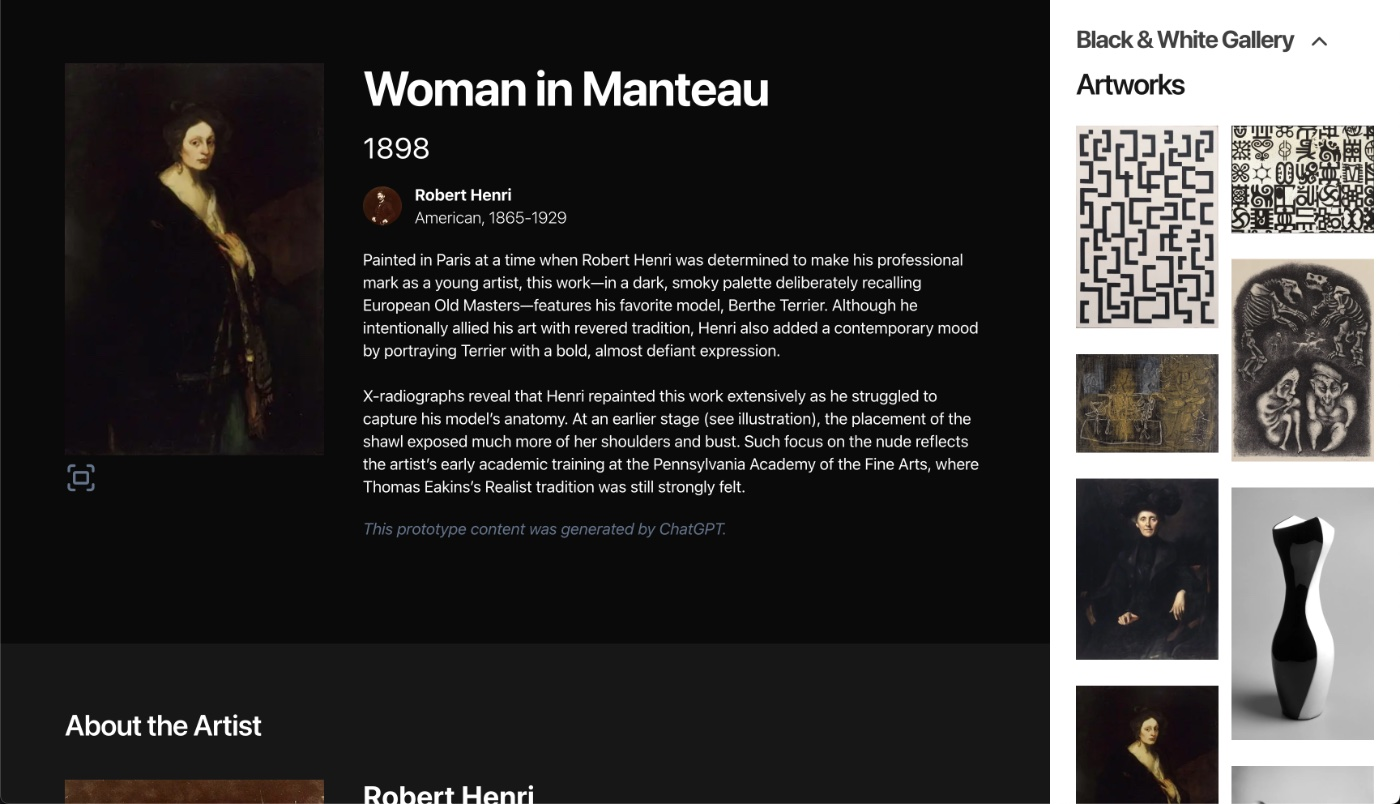
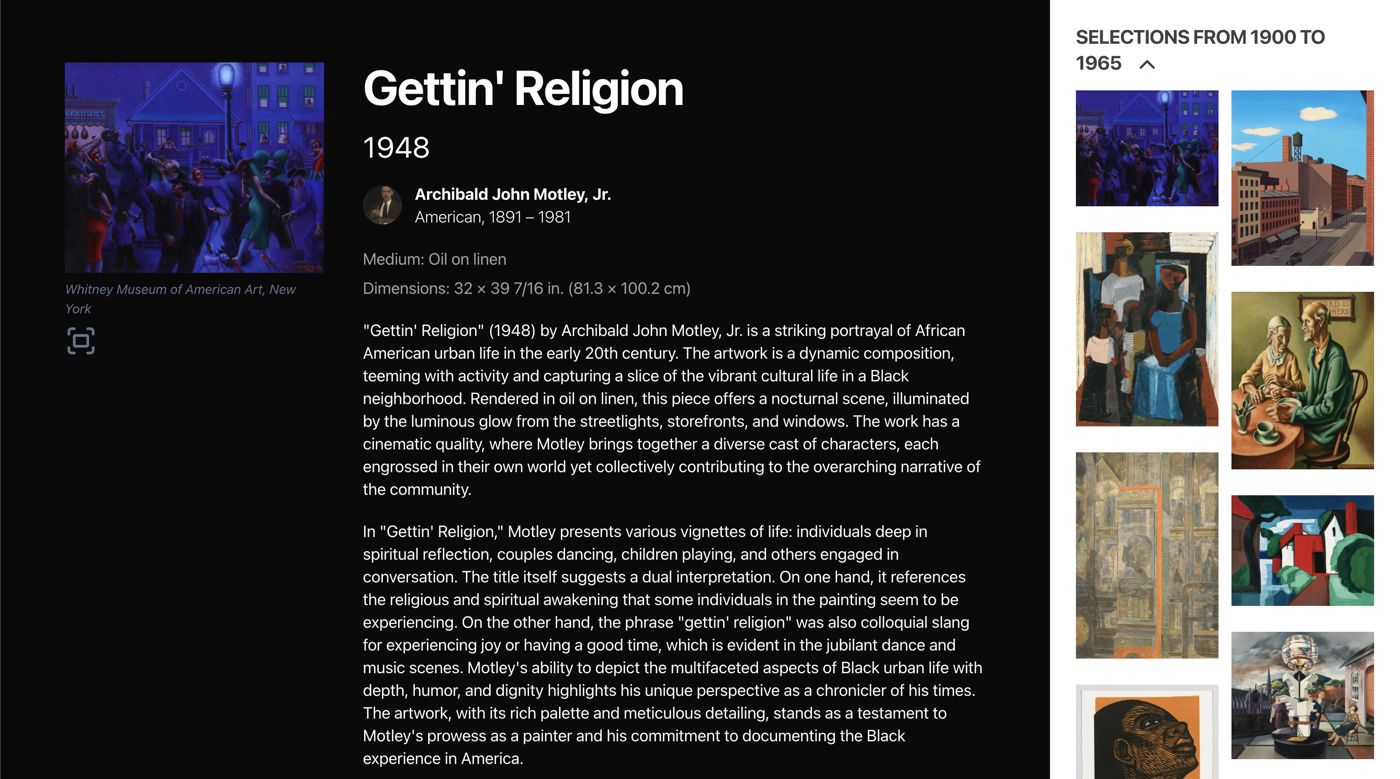
update gallery, UI enhance, artwork fields

diff --git a/components/gallery/gallery.tsx b/components/gallery/gallery.tsx
@@ -1,7 +1,7 @@
 'use client';
 
 import { Key, MutableRefObject, useEffect, useRef, useState } from 'react';
-import type { Gallery, Artwork as ArtworkType } from '@/types';
+import type { Artwork as ArtworkType, Gallery } from '@/types';
 import { ChevronUp } from 'lucide-react';
 
 import Artwork from '@/components/artwork/artwork';
@@ -17,33 +17,37 @@ interface GalleryProps {
 export default function Gallery({ gallery }: GalleryProps) {
   const [slug, setSlug] = useState<string | null>(null);
   const [artwork, setArtwork] = useState<ArtworkType | null>(null);
-  const timerRef = useRef<number | null>(null);
+  const galleryTimerRef = useRef<number | null>(null);
 
   function onImageClick(slug: string | null) {
     setSlug(slug);
   }
 
-  const scrollable = useRef() as MutableRefObject<HTMLDivElement | null>;
+  const galleryScrollable = useRef() as MutableRefObject<HTMLDivElement | null>;
 
   useEffect(() => {
-    setArtwork(gallery.artworks.find((artwork) => artwork.slug === slug) || null);
-    scrollable?.current?.scrollTo({ top: 0, behavior: 'smooth' });
+    setArtwork(
+      gallery.artworks.find((artwork) => artwork.slug === slug) || null
+    );
+    galleryScrollable?.current?.scrollTo({ top: 0, behavior: 'smooth' });
   }, [slug]);
 
   useEffect(() => {
-    setArtwork(gallery.artworks.find((artwork) => artwork.slug === slug) || null);
-    scrollable?.current?.scrollTo({ top: 0, behavior: 'smooth' });
+    setArtwork(
+      gallery.artworks.find((artwork) => artwork.slug === slug) || null
+    );
+    galleryScrollable?.current?.scrollTo({ top: 0, behavior: 'smooth' });
 
     if (slug) {
       // Set a timer to return to the main gallery after a period of time
-      timerRef.current = setTimeout(() => {
+      galleryTimerRef.current = setTimeout(() => {
         setSlug(null);
       }, RETURN_TO_GALLERY_TIMEOUT) as unknown as number;
     }
 
     return () => {
-      if (timerRef.current) {
-        clearTimeout(timerRef.current);
+      if (galleryTimerRef.current) {
+        clearTimeout(galleryTimerRef.current);
       }
     };
   }, [slug]);
@@ -51,7 +55,7 @@ export default function Gallery({ gallery }: GalleryProps) {
   return (
     <div className="flex">
       <div
-        ref={scrollable}
+        ref={galleryScrollable}
         className="w-3/4 h-screen overflow-y-auto  bg-neutral-950 text-white"
       >
         {!artwork ? (
@@ -61,7 +65,7 @@ export default function Gallery({ gallery }: GalleryProps) {
         )}
       </div>
       <div className="w-1/4 h-screen overflow-y-auto p-8">
-        <h1 className="text-1xl md:text-2xl lg:text-3xl font-bold tracking-tighter leading-tight md:leading-none mb-4 cursor-pointer ">
+        <h1 className="text-1xl md:text-2xl lg:text-2xl font-bold tracking-tight leading-tight md:leading-none mb-4 cursor-pointer uppercase">
           <a
             className="text-neutral-700 hover:text-neutral-800"
             onClick={() => onImageClick(null)}
@@ -70,9 +74,6 @@ export default function Gallery({ gallery }: GalleryProps) {
             {slug && <ChevronUp className="inline-block h-8 w-8 ml-4" />}
           </a>
         </h1>
-        <h3 className="text-2xl md:text-3xl lg:text-4xl font-semibold tracking-tighter leading-tight md:leading-none mb-8">
-          Artworks
-        </h3>
         <div className="columns-1 gap-4 md:columns-1 lg:columns-2">
           {gallery.artworks?.length > 0 &&
             gallery.artworks.map((artwork: ArtworkType, i: Key) => (

diff --git a/components/artwork/artwork.tsx b/components/artwork/artwork.tsx
@@ -1,9 +1,10 @@
 import { PortableText } from '@portabletext/react';
 
 import { portableTextComponents } from '@/components/sanity/portableTextComponents';
+import AiWarning from '../ai-warning';
+import Avatar from '../constituent/avatar';
 import Constituent from '../constituent/constituent';
 import { ArtworkImageZoom } from '../image/artwork-image-zoom';
-import Avatar from '../constituent/avatar';
 
 export default function Artwork({ artwork, preview = false }) {
   const slug = artwork?.slug;
@@ -20,20 +21,28 @@ export default function Artwork({ artwork, preview = false }) {
               {artwork.title}
             </h1>
             <div className="mb-6 text-4xl">{artwork.formattedDate}</div>
-            <div className="mb-6">
+            <div className="">
               {artwork.primaryConstituent && (
                 <Avatar constituent={artwork.primaryConstituent} />
               )}
             </div>
+            {artwork.medium && (
+              <div className="mt-6 text-xl text-neutral-400">
+                Medium: {artwork.medium}
+              </div>
+            )}
+            {artwork.dimensions && (
+              <div className="mt-2 text-xl text-neutral-400">
+                Dimensions: {artwork.dimensions}
+              </div>
+            )}
           </div>
-          <div className="text-xl markdown">
+          <div className="mt-6 text-xl markdown">
             <PortableText
               value={artwork.description}
               components={portableTextComponents}
             />
-            <div className="text-muted-foreground italic">
-              This prototype content was generated by ChatGPT.
-            </div>
+            <AiWarning />
           </div>
         </div>
       </div>

diff --git a/components/gallery/gallery-info.tsx b/components/gallery/gallery-info.tsx
@@ -2,6 +2,7 @@ import type { Gallery } from '@/types';
 import { PortableText } from '@portabletext/react';
 
 import { portableTextComponents } from '@/components/sanity/portableTextComponents';
+import AiWarning from '../ai-warning';
 
 interface GalleryInfoProps {
   gallery: Gallery;
@@ -10,7 +11,7 @@ interface GalleryInfoProps {
 export default function GalleryInfo({ gallery }: GalleryInfoProps) {
   return (
     <div className="p-20 mb-12">
-      <h1 className="text-6xl md:text-7xl lg:text-8xl font-bold tracking-tighter leading-tight md:leading-none mb-12 text-center md:text-left">
+      <h1 className="text-6xl md:text-7xl lg:text-8xl font-bold tracking-tight leading-tight md:leading-none mb-12 uppercase">
         {gallery.title}
       </h1>
       <div className="text-xl markdown">
@@ -18,9 +19,7 @@ export default function GalleryInfo({ gallery }: GalleryInfoProps) {
           value={gallery.description}
           components={portableTextComponents}
         />
-        <div className="text-muted-foreground italic">
-          This prototype content was generated by ChatGPT.
-        </div>
+        <AiWarning />
       </div>
     </div>
   );

diff --git a/components/constituent/constituent.tsx b/components/constituent/constituent.tsx
@@ -1,8 +1,9 @@
+import type { Constituent } from '@/types';
 import { PortableText } from '@portabletext/react';
 
+import AiWarning from '../ai-warning';
 import SanityImage from '../image/sanity-image';
 import { portableTextComponents } from '../sanity/portableTextComponents';
-import type { Constituent } from '@/types';
 
 interface ConstituentProps {
   constituent: Constituent;
@@ -27,9 +28,7 @@ export default function Constituent({ constituent }: ConstituentProps) {
                 value={constituent.content}
                 components={portableTextComponents}
               />
-              <div className="text-muted-foreground italic">
-                This prototype content was generated by ChatGPT.
-              </div>
+              <AiWarning />
             </div>
           </div>
         </div>

diff --git a/app/page.tsx b/app/page.tsx
@@ -1,6 +1,6 @@
-import type { Gallery as GalleryType, Artwork } from '@/types';
+import type { Artwork, Gallery as GalleryType } from '@/types';
 
-import { getGalleryQuery } from '@/lib/sanity/queries/gallery';
+import { getGalleryBySlugQuery } from '@/lib/sanity/queries/gallery';
 import { sanityFetch } from '@/lib/sanity/sanityFetch';
 import Gallery from '@/components/gallery/gallery';
 
@@ -10,7 +10,7 @@ type PageProps = {
 };
 
 export default async function Page({ params, searchParams }: PageProps) {
-  const galleryQuery = getGalleryQuery(process.env.DEFAULT_GALLERY_ID);
+  const galleryQuery = getGalleryBySlugQuery(process.env.DEFAULT_GALLERY_SLUG);
   const gallery = await sanityFetch<GalleryType>({ query: galleryQuery });
 
   return <Gallery gallery={gallery} />;

diff --git a/components/image/artwork-image-zoom.tsx b/components/image/artwork-image-zoom.tsx
@@ -2,8 +2,8 @@
 
 import { useState } from 'react';
 import dynamic from 'next/dynamic';
-import { FullscreenIcon } from 'lucide-react';
 import type { Artwork } from '@/types';
+import { FullscreenIcon } from 'lucide-react';
 
 import { urlForImage } from '@/lib/sanity/image';
 import {
@@ -43,6 +43,11 @@ export function ArtworkImageZoom({ artwork }: ArtworkImageZoomProps) {
               className="cursor-pointer object-contain"
               width={800}
             />
+            {artwork.imageCopyright && (
+              <div className="mt-2 text-base text-muted-foreground italic">
+                {artwork.imageCopyright}
+              </div>
+            )}
             <FullscreenIcon className="mt-2 h-10 w-10 cursor-pointer" />
           </div>
         </div>

diff --git a/studio/schemas/artwork.ts b/studio/schemas/artwork.ts
@@ -43,10 +43,20 @@ export default defineType({
       validation: (Rule) => Rule.required(),
     }),
     defineField({
+      name: 'imageCopyright',
+      title: 'Image Copyright',
+      type: 'string',
+    }),
+    defineField({
       name: 'medium',
       title: 'Medium',
       type: 'string',
       validation: (Rule) => Rule.required(),
+    }),
+    defineField({
+      name: 'dimensions',
+      title: 'Dimensions',
+      type: 'string',
     }),
     defineField({
       name: 'formattedDate',

diff --git a/lib/sanity/queries/gallery.ts b/lib/sanity/queries/gallery.ts
@@ -16,9 +16,9 @@ export const galleryFields = `
   },
 `;
 
-export function getGalleryQuery(galleryId: string | undefined) {
-  if (!galleryId) {
+export function getGalleryBySlugQuery(gallerySlug: string | undefined) {
+  if (!gallerySlug) {
     return '';
   }
-  return `*[_id == "${galleryId}"][0]{ ${galleryFields} }`;
+  return `*[_type == "gallery" && slug.current == "${gallerySlug}"][0]{ ${galleryFields} }`;
 }

diff --git a/types.ts b/types.ts
@@ -34,7 +34,9 @@ export interface Artwork {
   description: PortableTextBlock;
   excerpt: string;
   image: SanityImage;
-  medium: string;
+  imageCopyright?: string;
+  medium?: string;
+  dimensions?: string;
   formattedDate: string;
   primaryConstituent: Constituent;
 }

diff --git a/components/ai-warning.tsx b/components/ai-warning.tsx
@@ -1,0 +1,8 @@
+export default function AiWarning() {
+  return (
+    <div className="text-muted-foreground italic">
+      This is just a prototype. Content was generated in part by ChatGPT and is
+      not meant to be factual.
+    </div>
+  );
+}

diff --git a/lib/sanity/queries/artwork.ts b/lib/sanity/queries/artwork.ts
@@ -5,6 +5,9 @@ export const artworkFields = `
   excerpt,
   description,
   image,
+  imageCopyright,
+  medium,
+  dimensions,
   "slug": slug.current,
   primaryConstituent->,
 `;

diff --git a/README.md b/README.md
@@ -6,19 +6,23 @@ Originally based on [Blog Starter Kit with Sanity](https://vercel.com/templates/
 
 ## Demo
 
-### [https://collections-interactive-sanity-r6ixctqfm-derekphilipau.vercel.app/](https://collections-interactive-sanity-r6ixctqfm-derekphilipau.vercel.app/)
+### [https://collections-interactive-sanity-gclee9pal-derekphilipau.vercel.app//](https://collections-interactive-sanity-gclee9pal-derekphilipau.vercel.app/)
 
 # Why
 
-An exhibition designer may come across situations for which traditional in-gallery labels or space are insufficient.  The Whitney's Collection installation uses graphic label guides to help visitors find objects, while MoMA's Page Turners showcase additional exhibition material.
+An exhibition designer may come across situations for which traditional in-gallery labels or space are insufficient. The Whitney's Collection installation uses graphic label guides to help visitors find objects, while MoMA's Page Turners showcase additional exhibition material.
+
+This prototype demonstrates how one could use a CMS (in this case, Sanity) with Next.js to statically generate a web-based interactive gallery experience. The static build files could then be deployed to an in-gallery touchscreen display such as an iPad in kiosk mode. Note: This project still needs work, for example images need to be locally served.
+
+This is a prototype and not a design proposal, more work would be needed to make this viable and accessible.
+
+This is not a suggestion that in-gallery interactive touchscreens are a good idea. The Whitney's Collection installation is a great example of how to use graphic label guides to help visitors find objects.
 
 [Installation view of The Whitney’s Collection: Selections from 1900 to 1965](https://whitney.org/exhibitions/collection-1900-to-1965)
 ![screenshot](./docs/img/whitney.jpg)
 
 [MoMA In-Gallery Page Turners](https://eric.young.li/moma-page-turners/) by [Eric Li](https://eric.young.li/)
 ![MoMA In-Gallery Page Turners](./docs/img/moma.jpg)
-
-This prototype demonstrates how one could use a CMS (in this case, Sanity) with Next.js to statically generate a web-based interactive gallery experience.  The static build files could then be deployed to an in-gallery touchscreen display such as an iPad in kiosk mode.
 
 # Configuration
 
